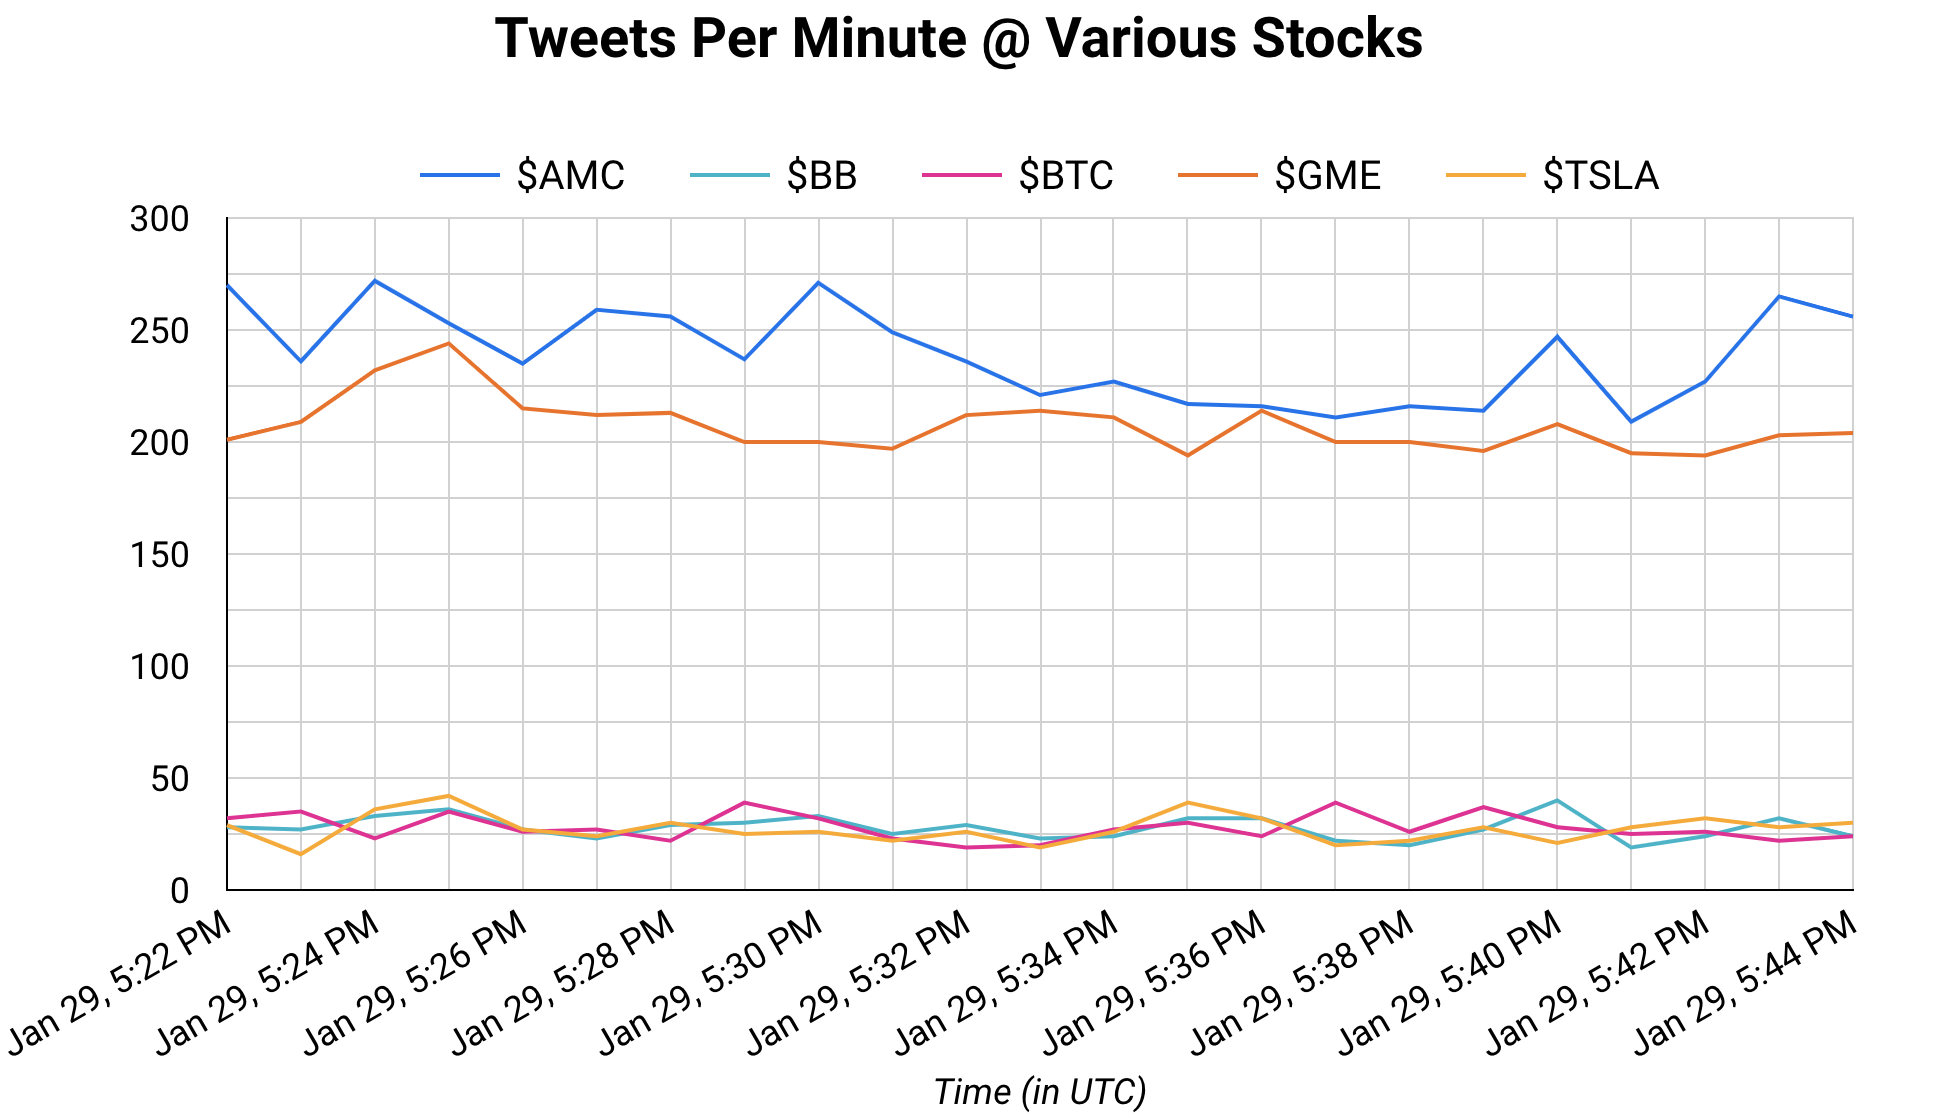
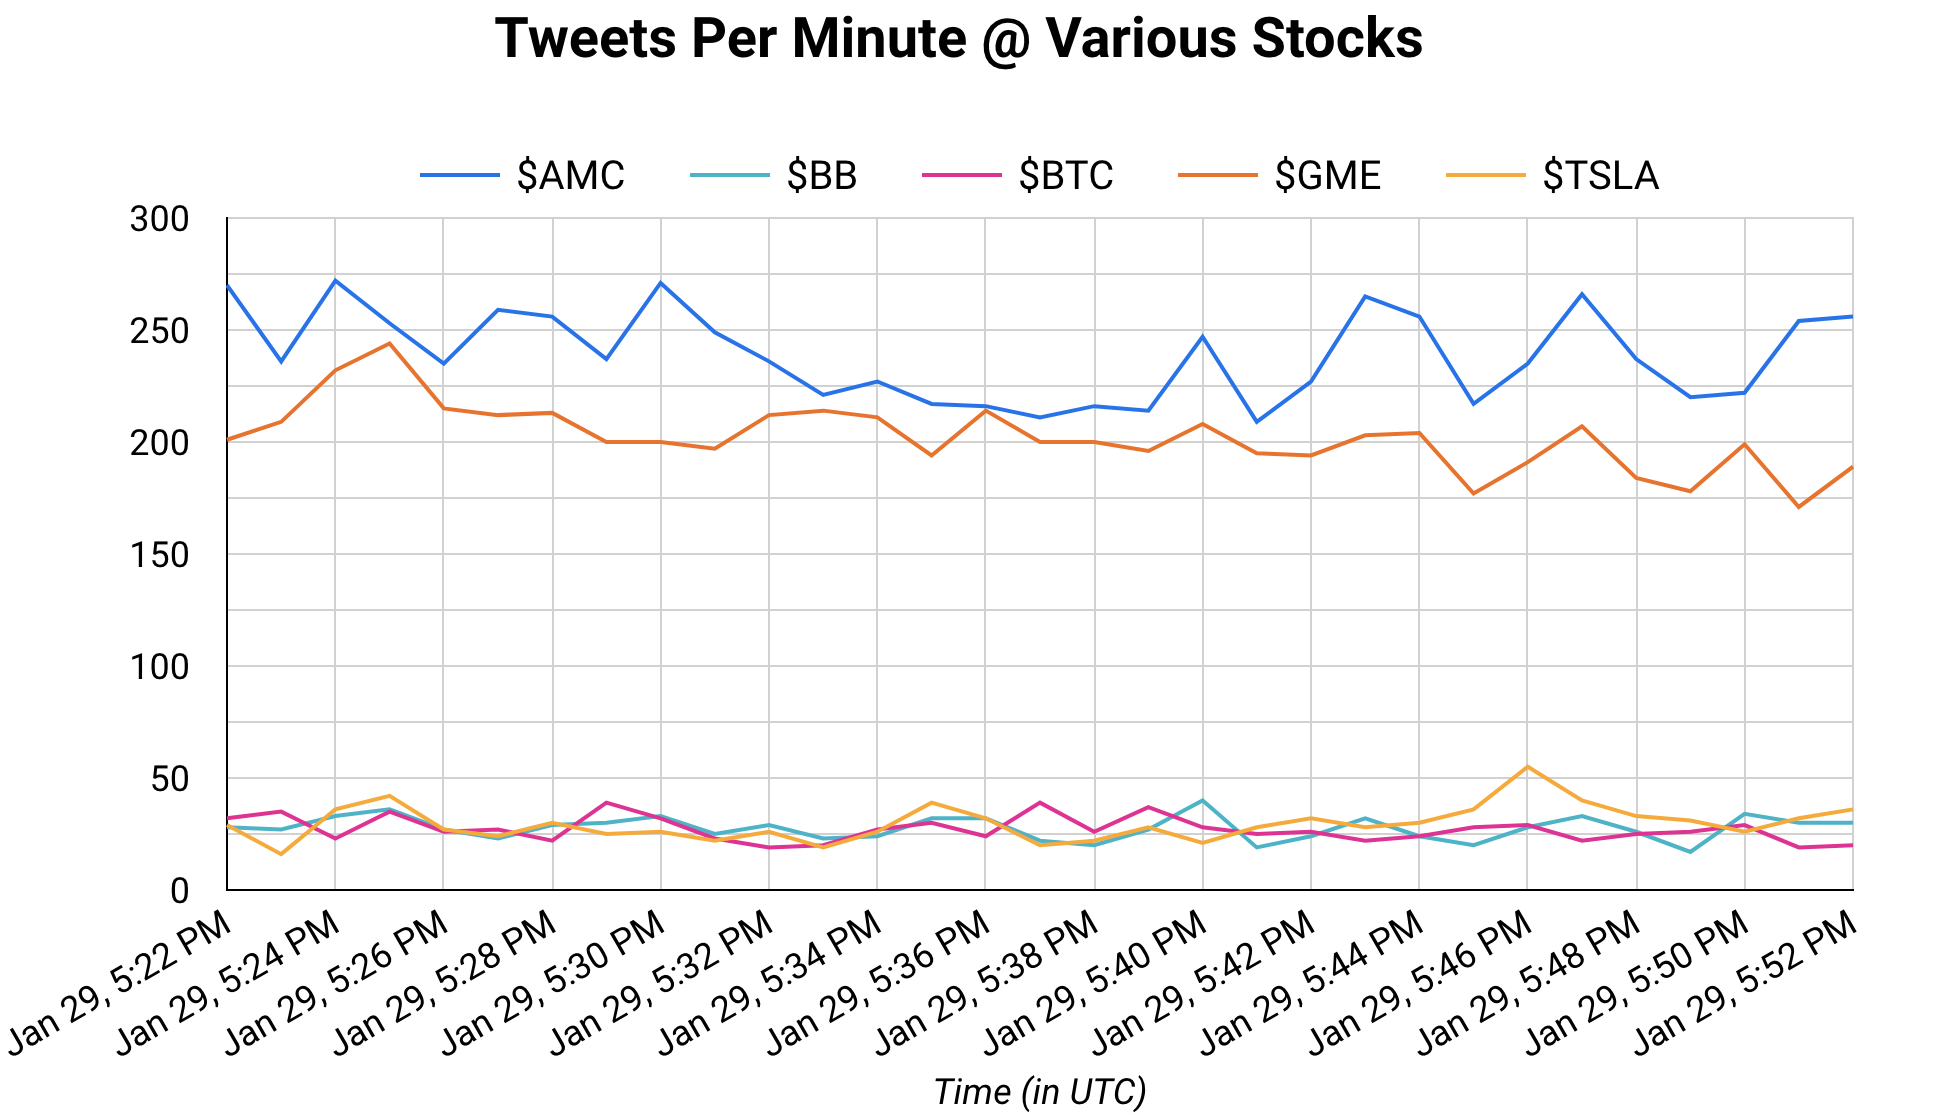
readme update

diff --git a/stream-to-pubsub.py b/stream-to-pubsub.py
@@ -127,13 +127,14 @@ while True:
             retry_count=10)
         stream.filter(track=search_terms)
 
+    # Added to combat connection errors that tend to arise
     except ConnectionResetError as error:
         print(str(error))
         print()
         error_time = datetime.now(timezone('UTC')).astimezone(timezone('US/Eastern'))
         print(f"ConnectionResetError occurred at {error_time.strftime('%m/%d/%Y %H:%M:%S')}")
         continue
-        
+
     except ProtocolError as error:
         print(str(error))
         print()

diff --git a/README.md b/README.md
@@ -4,7 +4,7 @@
 
 Let's say you're someone who knows some Python, has spent time on Google Cloud Platform, and would like to work with streaming data from Twitter (either because you're curious or, like me, you wanted practice building a streaming data pipeline from start to finish). I set out to do this very thing and I found some good high-level resources to help guide me. But most tended to skip over some of the nitty gritty details needed to make the thing work.
 
-So I decided to build this pipeline and document everything along the way with the intention of making it a little easier for others to do the same in the future. In the end, I came out with a blueprint for a data pipeline that lets you stream in tweets on topics that interest you. (The chart above, for example, shows a sample run of the pipeline for about 20 minutes, streaming in all tweets about various stock ticker symbols.)
+So I decided to build this pipeline and document everything along the way with the intention of making it a little easier for others to do the same in the future. In the end, I came out with a blueprint for a data pipeline that lets you stream in tweets on topics that interest you. (The chart above, for example, shows a sample run of the pipeline for about 30 minutes, streaming in all tweets about various stock ticker symbols.)
 
 So without further ado, here's my attempt at providing a step by step guide to building a pipeline for analyzing streaming data from Twitter.
 
@@ -86,6 +86,10 @@ So far, I've played around with visualizing the data in Data Studio but haven't 
 Receiving 401s when you run the script? 
 * Make sure you've entered the correct API credential information in Secret Manager (you may need to regenerate credentials. Twitter seems to reject credentials after a certain period of time but I'm not sure exactly how long credentials do or don't last.
 * If your credentials check out, the problem may be that the VM's internal clock is inaccurate. The VM's clock can be delayed if you pause the VM. Try **stopping** and restarting the VM. This should reset the clock (run `timedatectl` within the VM and check to see if `System clock synchronized` is set to `yes`). If you do want to put the VM on hold in the future, it may be better to stop it altogether rather than pause.
+
+Getting connection errors?
+
+This one has been trickier to solve. I've added a few parameters to the script to try and prevent the stream from breaking. The only other thing that might help is, if you're running the VM within a Chrome browser (like I did), make sure you have the most up-to-date version of Chrome.
 
 ### Dataflow
 
